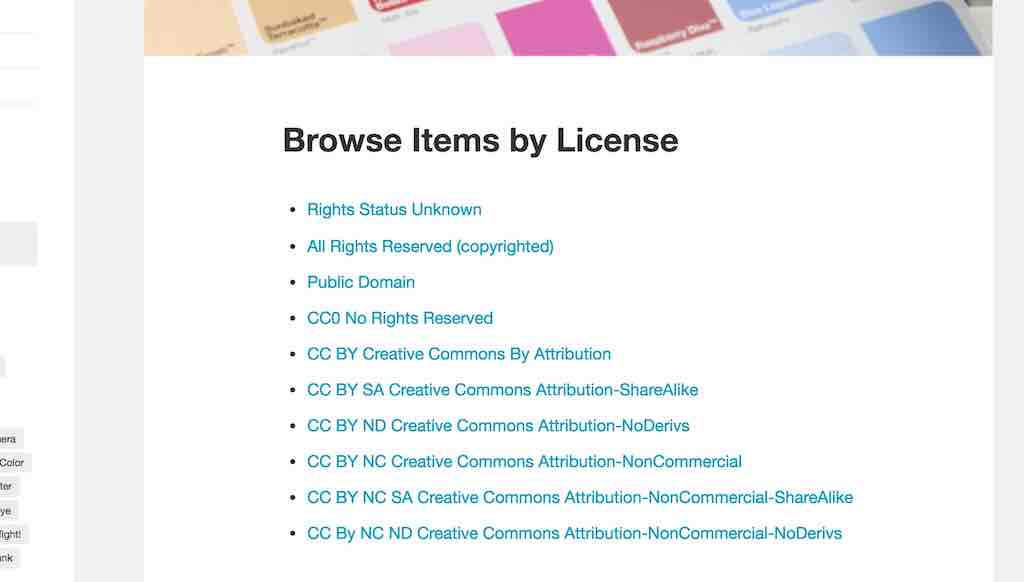
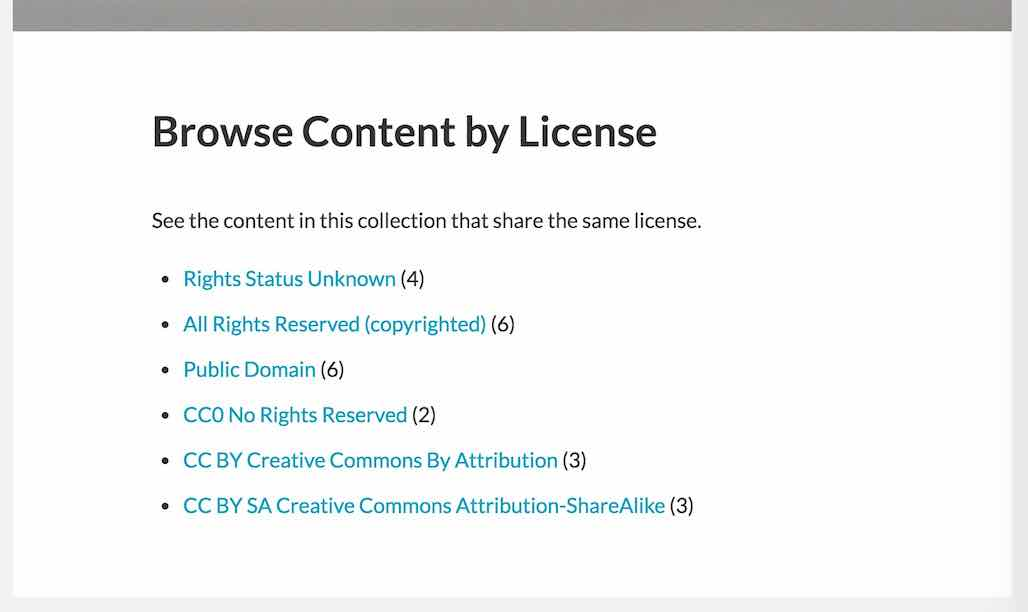
License Type Count
New function provides to the Browse By License template an addition of the count of items with a given license, as well as just listing licenses that have been used.

diff --git a/page-licensed.php b/page-licensed.php
@@ -58,19 +58,28 @@ if ( isset( $wp_query->query_vars['flavor'] ) ) {
 						<?php the_content(); ?>
 					
 					
-						<?php if ( trucollector_option('use_license') > 0 ):?>
-							<ul>
-							<?php
+							<?php if ( trucollector_option('use_license') > 0 ):?>
+								<ul>
+								<?php
+				
+									foreach ( $all_licenses as $abbrev => $title) {
+									
+										// get number of items with this license
+										$lcount = trucollector_get_license_count( $abbrev ); 
+										
+										// show if we have some
+										if ( $lcount > 0 ) {
+											echo '<li><a href="' . site_url() . '/licensed/' . $abbrev . '">' . $title . '</a> (' . $lcount . ")</li>\n";
+										}
+									}
+				
+								?>
+								</ul>
+							<?php else:?>
+	
+
 					
-								foreach ( $all_licenses as $abbrev => $title) {
-									echo '<li><a href="' . site_url() . '/licensed/' . $abbrev . '">' . $title . "</a></li>\n";
-								}
-					
-							?>
-							</ul>
-						<?php else:?>
-					
-							<p>The current settings for this site are to not use licenses; the site administration can enable this feature from the <code>TRU Collector Options.</code> </p>
+							<p>The current settings for this site are to not use licenses; the site administrator can enable this feature from the <code>TRU Collector Options.</code> </p>
 					
 					
 						<?php endif?>

diff --git a/functions.php b/functions.php
@@ -237,6 +237,18 @@ function trucollector_the_license( $lcode ) {
 	echo $all_licenses[$lcode];
 }
 
+
+function trucollector_get_license_count( $the_license ) {
+	// get the number of items with a given license code
+
+	// run a query based on post meta key/values
+	$lic_query = new WP_Query( array( 'post_status' => 'publish', 'meta_key' => 'license', 'meta_value' =>  $the_license ) );
+
+	// how many?
+	return $lic_query->found_posts;
+
+}
+
 function trucollector_attributor( $license, $work_title, $work_creator='') {
 	// create an attribution string for the license
 
